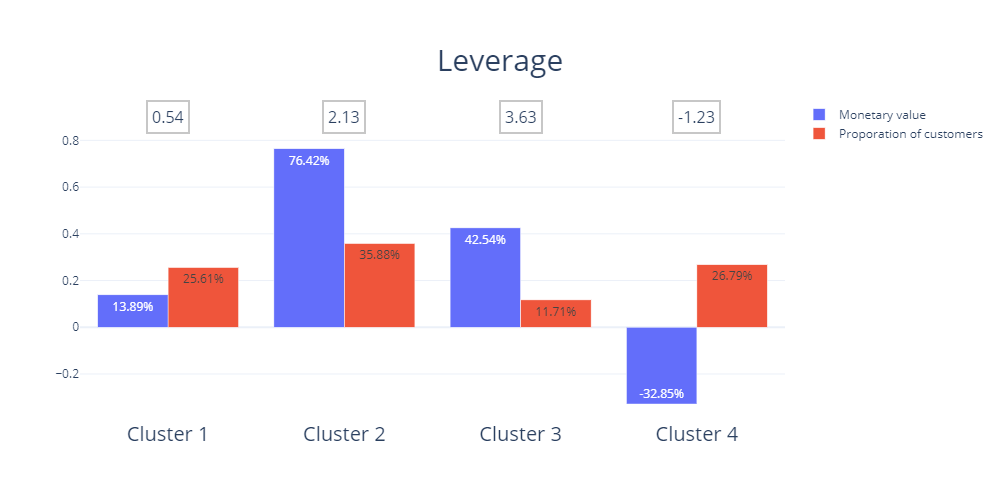
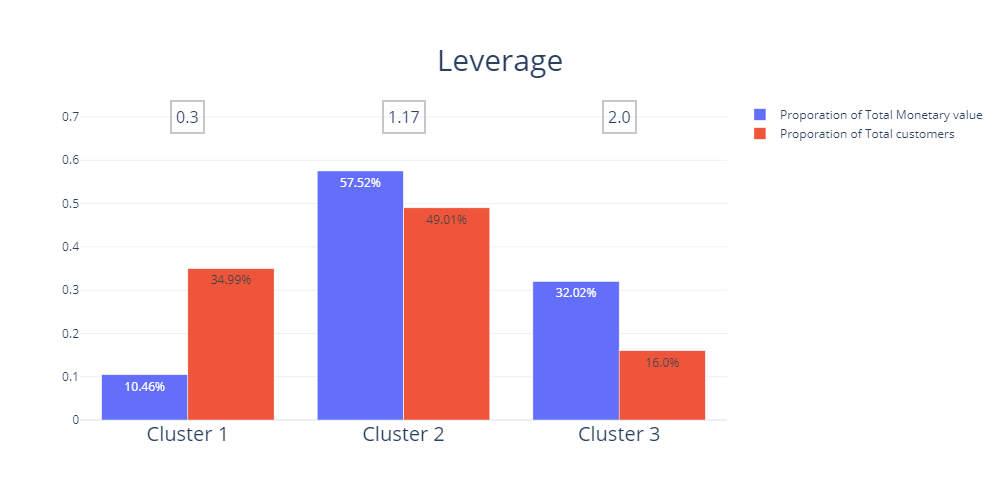
changed leverage graph

diff --git a/profiling.py b/profiling.py
@@ -206,17 +206,17 @@ graph = pydotplus.graph_from_dot_data(dot_data.getvalue())
 graph.write_png('images/decision_tree_cluster_final.png')
 
 # Leverage of clusters
-sum_mon_val = df_profiled[["mon_value", "c2_cluster"]].groupby("c2_cluster").sum()
+sum_mon_val = df_profiled[df_profiled["c2_cluster"] != 3][["mon_value", "c2_cluster"]].groupby("c2_cluster").sum()
 prop_mon_val = sum_mon_val["mon_value"].apply(lambda x: x/sum(sum_mon_val["mon_value"]))
-count_cust = df_profiled["c2_cluster"].value_counts().sort_index()
+count_cust = df_profiled[df_profiled["c2_cluster"] != 3]["c2_cluster"].value_counts().sort_index()
 prop_cust= count_cust.apply(lambda x: x/sum(count_cust.values))
 
 mon_labels = [str(round(p*100,2)) + "%" for p in prop_mon_val.values]
 cus_labels = [str(round(p*100,2)) + "%" for p in prop_cust.values]
 leverage = prop_mon_val / prop_cust
 
-data = [go.Bar(name="Monetary value", x=prop_mon_val.index, y=prop_mon_val, text=mon_labels,textposition="auto"),
-		go.Bar(name="Proporation of customers", x=prop_mon_val.index, y=prop_cust, text=cus_labels,textposition="auto")]
+data = [go.Bar(name="Proporation of Total Monetary value", x=prop_mon_val.index, y=prop_mon_val, text=mon_labels,textposition="auto"),
+		go.Bar(name="Proporation of Total customers", x=prop_mon_val.index, y=prop_cust, text=cus_labels,textposition="auto")]
 
 
 layout = go.Layout(title=dict(text="Leverage", y=0.9, x=0.5, xanchor="center", yanchor="top", font=dict(size=30)),
@@ -225,11 +225,11 @@ layout = go.Layout(title=dict(text="Leverage", y=0.9, x=0.5, xanchor="center", y
 						tickfont = dict(size=20)), template="plotly_white")
 
 fig = go.Figure(data=data, layout=layout)
-for i in range(0,4):
+for i in range(0,3):
 	fig.add_annotation(
 	    go.layout.Annotation(
 	            x=i,
-	            y=0.9,
+	            y=0.7,
 	            text=round(leverage[i],2), 
 				font=dict(size=16),
 		        align="center",bordercolor="#c7c7c7",
